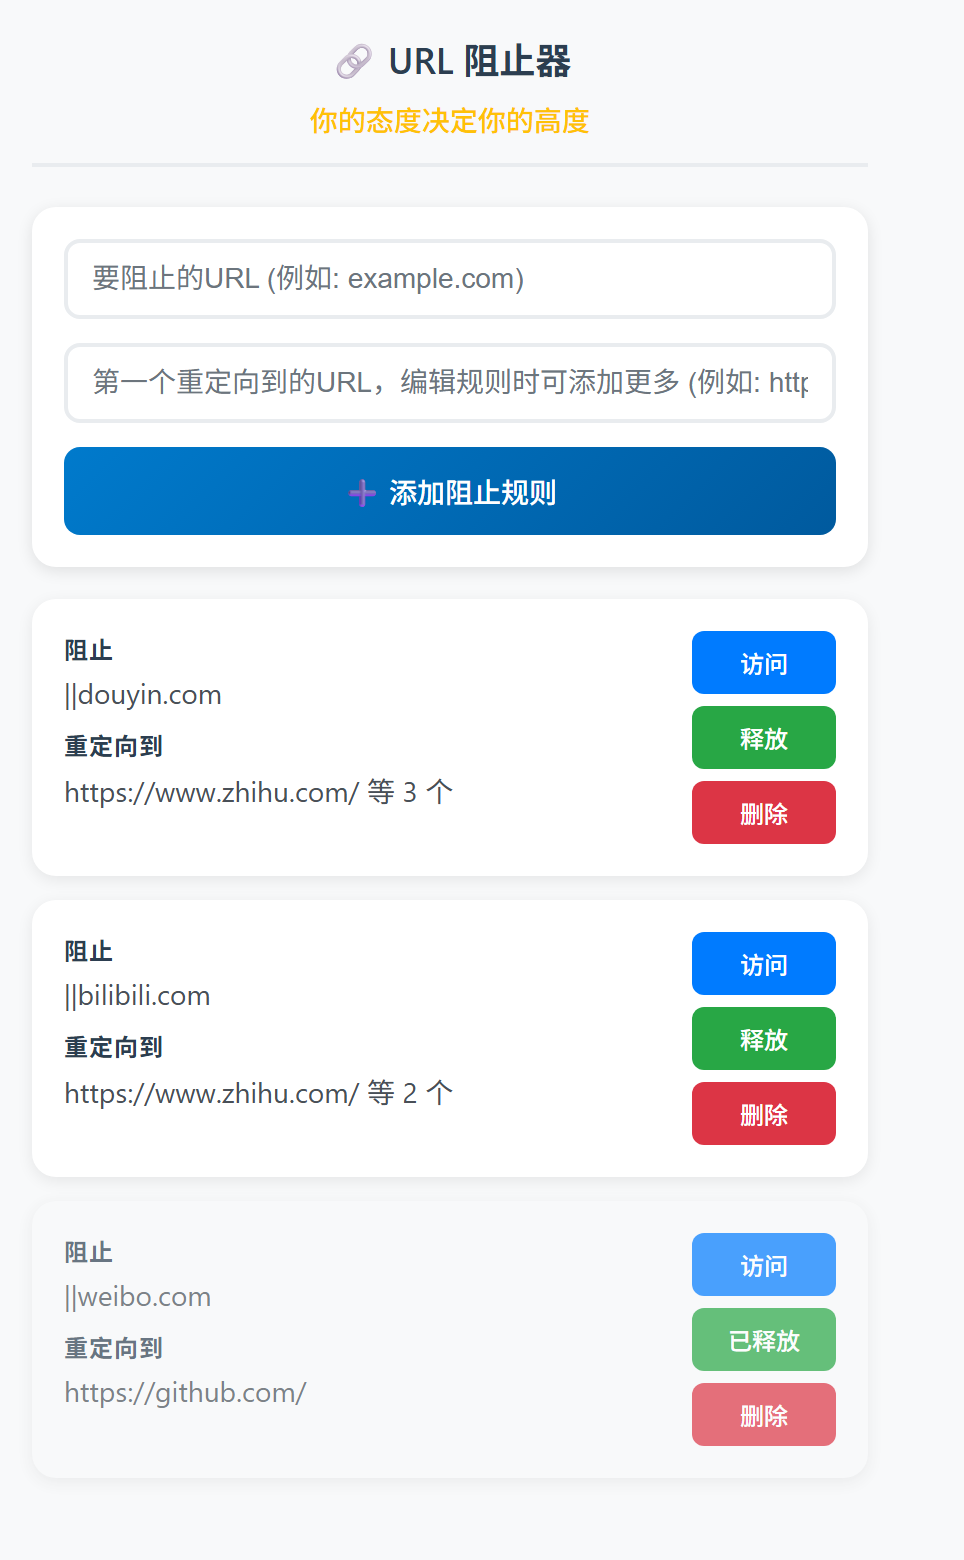
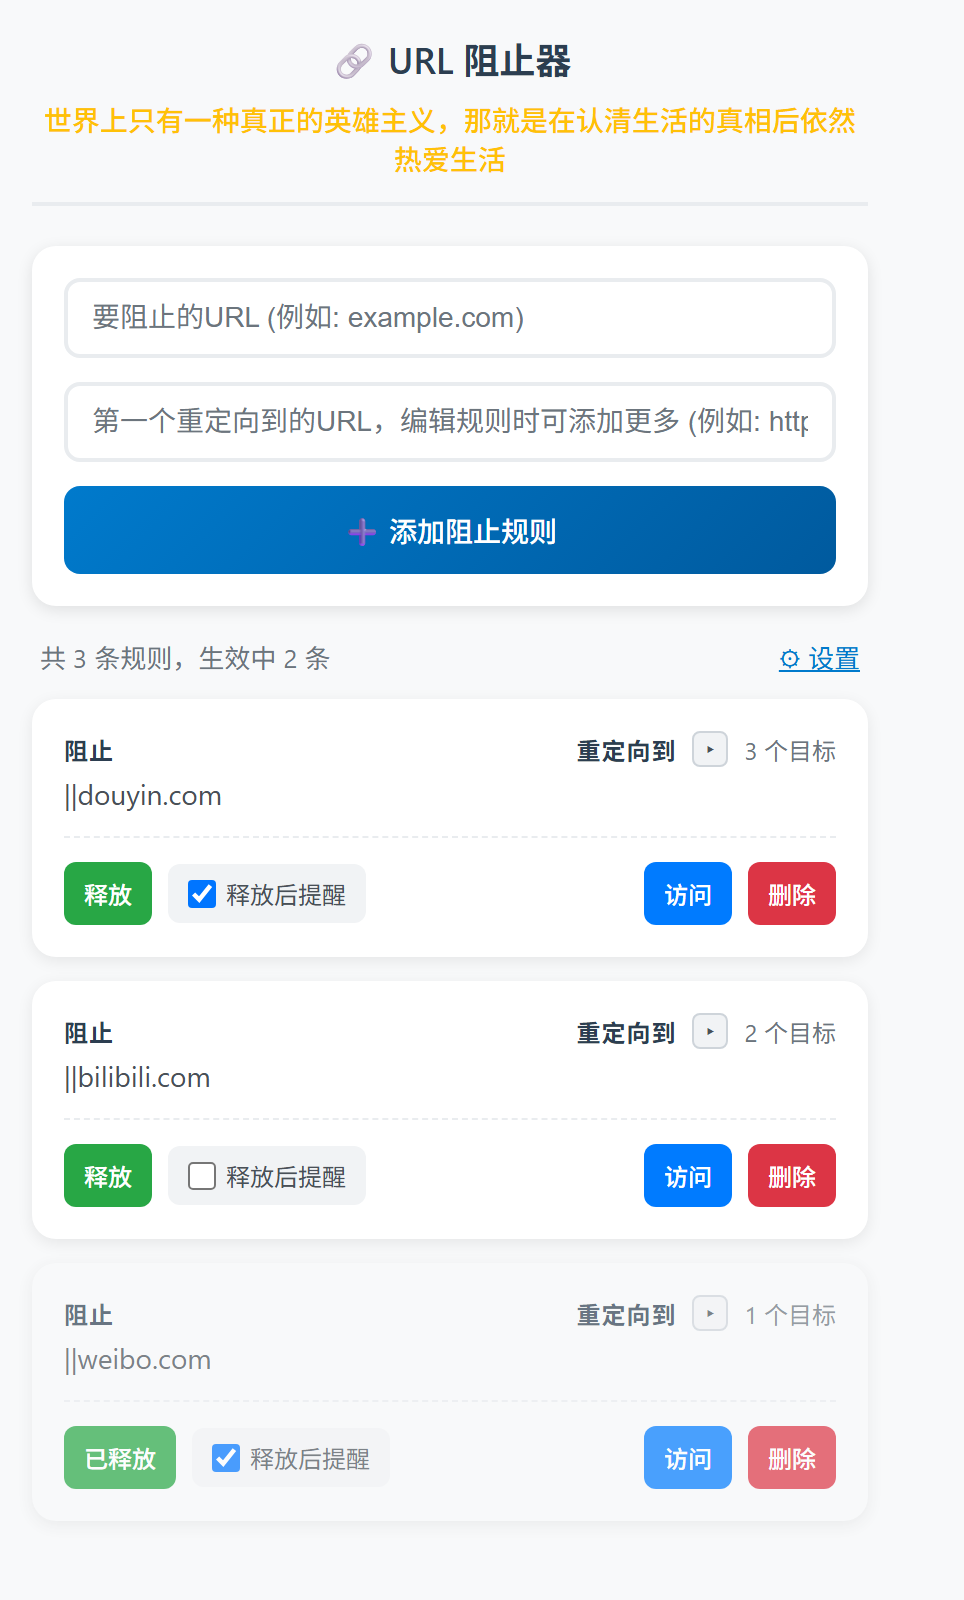
docs: 更新 README 界面预览截图为 v1.6 新 UI

diff --git a/README.md b/README.md
@@ -12,7 +12,7 @@
 
 </div>
 
-![界面预览](docs/screenshots/popup.png)
+<img src="docs/screenshots/popup.png" alt="界面预览" width="440">
 
 ---
 
